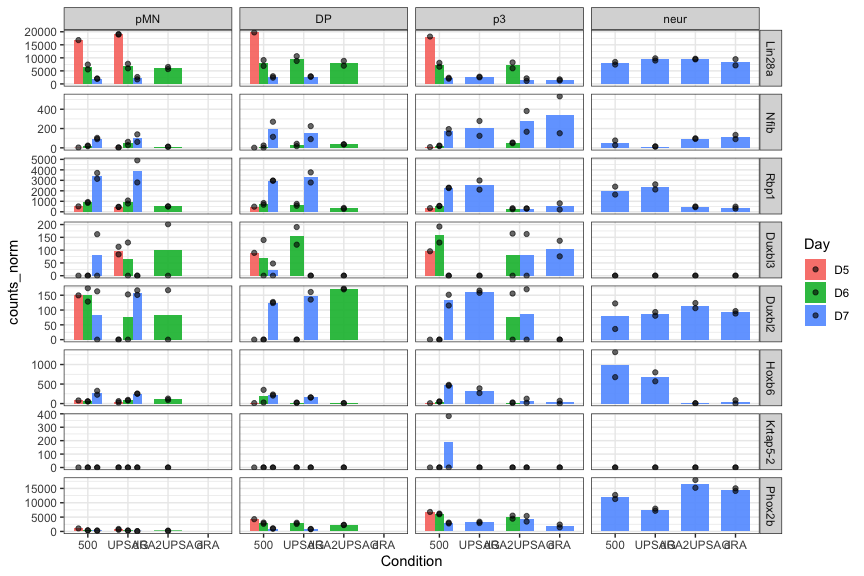
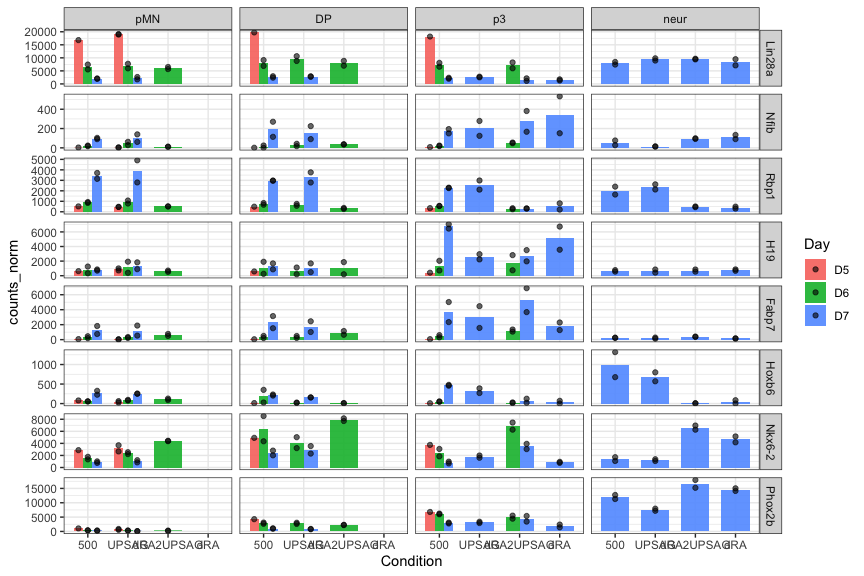
added genes plotted from diffexpression analysis

diff --git a/r_files/DPpilotRNA_2_quick_plotgenes.md b/r_files/DPpilotRNA_2_quick_plotgenes.md
@@ -113,7 +113,7 @@ ggplot(dds_counts_plot %>% filter(geneid %in% geneOI) %>% mutate(geneid=factor(g
 p3 d6 to d7
 
 ``` r
-geneOI <- c("Lin28a","Nfib","Rbp1","Duxbl3","Duxbl2","Hoxb6","Krtap5-2","Phox2b")
+geneOI <- c("Lin28a","Nfib","Rbp1","H19","Fabp7","Hoxb6","Nkx6-2","Phox2b")
 
 
 ggplot(dds_counts_plot %>% filter(geneid %in% geneOI) %>% mutate(geneid=factor(geneid, levels=geneOI)), 
@@ -130,6 +130,30 @@ ggplot(dds_counts_plot %>% filter(geneid %in% geneOI) %>% mutate(geneid=factor(g
 ```
 
 ![](DPpilotRNA_2_quick_plotgenes_files/figure-gfm/unnamed-chunk-7-1.png)<!-- -->
+
+### What are those neurons?
+
+Just D7
+
+``` r
+geneOI <- c("Tubb3","Sim1","Mnx1","Isl1","Isl2","Slc18a3","Gata3","Neurog2","Fev","Fgf10","Slc17a8",
+            "Abca1","Pou4f2","Irx3","Lpar1","Amd1","Cyp26b1")
+
+
+ggplot(dds_counts_plot %>% filter(geneid %in% geneOI & Day=="D7") %>% mutate(geneid=factor(geneid, levels=geneOI)), 
+       aes(x=Gate,y=counts_norm)) +
+  stat_summary(aes(fill=Condition),
+    fun = mean, geom="bar", alpha=0.9, width=0.7,position=position_dodge(0.7)) +
+  geom_point(aes(fill=Condition), alpha=0.6, position = position_dodge(width = 0.7),color="black") +
+  #geom_col(position="dodge",aes(fill=DayGate)) +
+  scale_fill_manual(values=colors_conditions) +
+  scale_color_manual(values=colors_conditions) +
+  scale_shape_manual(values=shapes4_fill_manual) +
+  facet_wrap(~ geneid, scales = "free_y", ncol=3) +
+  theme_bw()
+```
+
+![](DPpilotRNA_2_quick_plotgenes_files/figure-gfm/unnamed-chunk-8-1.png)<!-- -->
 
 ``` r
 sessionInfo()
